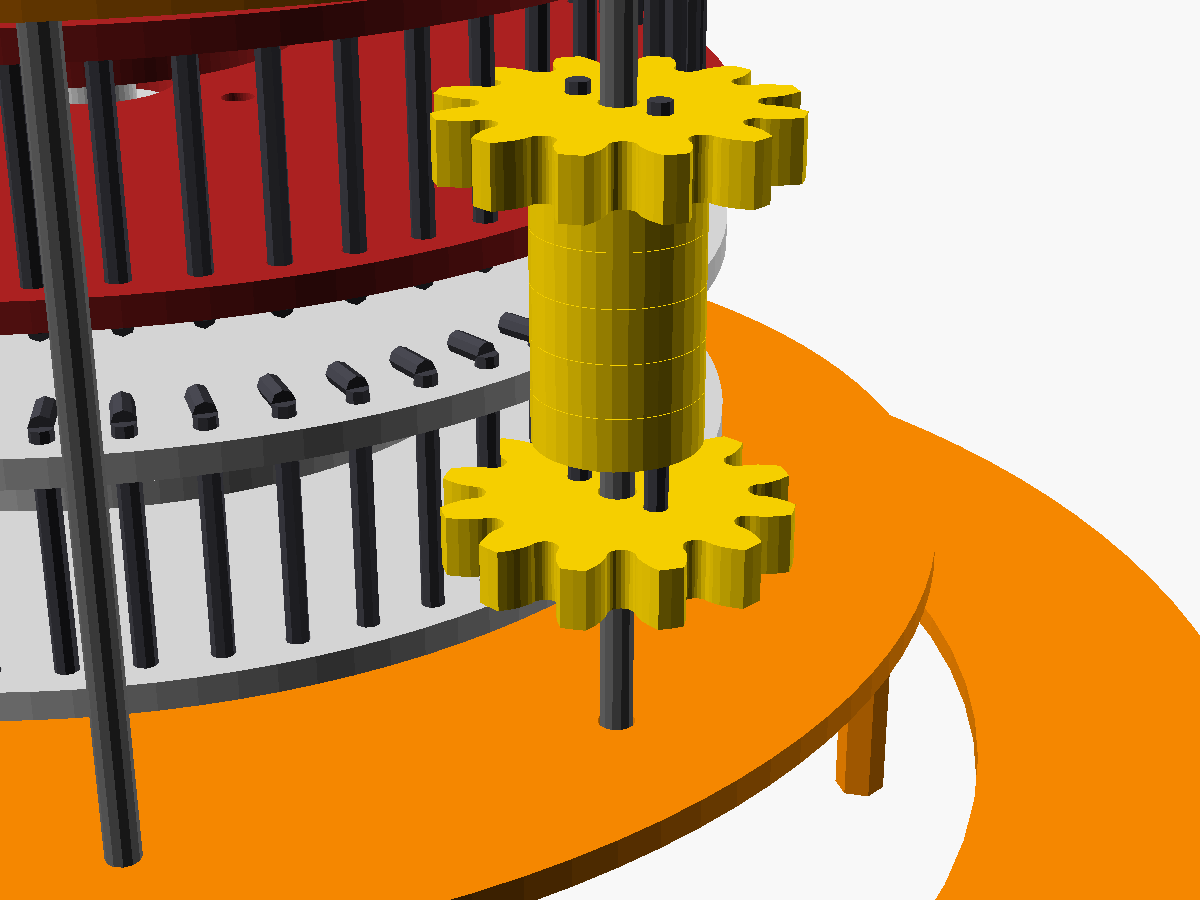
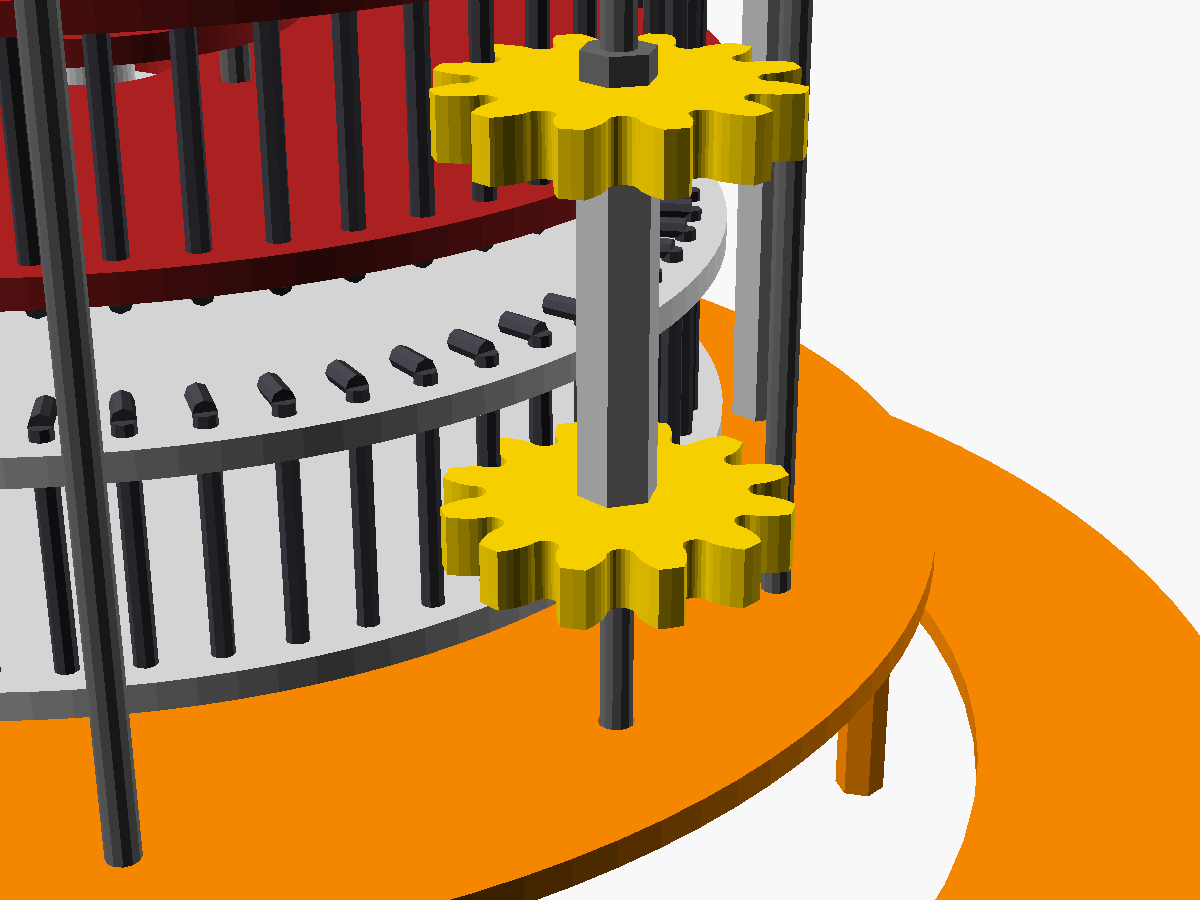
Clock train: M3 bolts + bought spacers instead of tie pins and cut spacer rings; planet bolt is its shaft
Claude-Session: https://claude.ai/code/session_01LQy87QnU21cWEAk5CN6jGY

diff --git a/marbles/clock/clock_train_drive.py b/marbles/clock/clock_train_drive.py
@@ -9,8 +9,9 @@ import matplotlib.image as mi  # noqa: E402
 
 import clock_pins as cp  # noqa: E402
 
-T, A, G, MID, CB = cp.T, cp.A, cp.G, cp.M, cp.CB
-GAP, GAP2, CAR_IN, UP_R, CAR_OUT = 24, 10, 44.5, 50, cp.A + 14
+T, A, G, MID, CB, FG = cp.T, cp.A, cp.G, cp.M, cp.CB, cp.FG
+GAP, CAR_IN, UP_R, CAR_OUT = 24, 44.5, 50, cp.A + 14
+SP_UP, SP_HAND, SP_R = 20, 12, cp.SP_D / 2
 COL = dict(fix="0.80", sec="darkorange", mpl="gold", minute="firebrick", hpl="hotpink", hour="royalblue", hw="0.25", pin="0.15")
 HERE = Path(__file__).resolve().parent
 VIEWS = HERE.parent / "views"
@@ -31,18 +32,22 @@ def layout():
     z = dict(bc=0.0)
     z["fa"] = T + CB
     z["fb"] = z["fa"] + 2 * T + G + MID
-    z["fc"] = z["fb"] + 2 * T + G + 0.5
-    z["pa"] = z["fa"] + T + T / 2
-    z["pb"] = z["fb"] + T + T / 2
+    z["fc"] = z["fb"] + 2 * T + G + FG
+    z["pa"] = z["fa"] + T + (G - 2 * T) / 2
+    z["pb"] = z["fb"] + T + (G - 2 * T) / 2
     z["depth"] = z["fc"] + T
     return z
 
 
-def pin_wheel(ax, z0, sn, col, bore_r, hub_in, hub_out):
+def pin_wheel(ax, z0, sn, col, bore_r, hub_in, hub_out, bolt_r, rings):
     zf = z0 + T + G
     for zz in (z0, zf):
         box(ax, zz, T, bore_r, sn["rim"], col)
-    box(ax, z0 + T, G, hub_in, hub_out, col)
+    if rings:
+        box(ax, z0 + T, G, hub_in, hub_out, col)                                   # cut rings = the 608 housing
+    else:
+        box(ax, z0 + T, G, bolt_r - SP_R, bolt_r + SP_R, "silver")                 # bought spacer
+    box(ax, z0 - 2, zf + T + 4.4 - z0, bolt_r - 1.5, bolt_r + 1.5, COL["hw"])      # M3 bolt
     R = sn["R"]
     box(ax, z0 - cp.PIN, 2 * T + G + 2 * cp.PIN, R - cp.PIN / 2, R + cp.PIN / 2, COL["pin"], ec="none")
     for zz in (z0 - cp.PIN, zf + T):
@@ -54,22 +59,22 @@ def stage(ax, z0, name, ccar, cpl, cout):
     z = {k: v + z0 for k, v in layout().items()}
     fc_in = max(x["rim"] for n in cp.STAGES for x in suns(n)[1:]) + 1
     box(ax, z["bc"], T, CAR_IN, CAR_OUT, ccar); box(ax, z["fc"], T, fc_in, CAR_OUT, ccar)
-    box(ax, z["bc"] - 2, z["fc"] + T + 5 - z["bc"], A - 1.5, A + 1.5, COL["hw"])                     # axle bolt
     box(ax, z["fa"] - 15, 15, 20, 35, COL["fix"]); box(ax, z["fa"] - 14.5, 14, 4, 20, COL["fix"])    # beam + SK8 (schematic)
-    pin_wheel(ax, z["fa"], a, COL["fix"], 4.2, 4.5, 40)
-    pin_wheel(ax, z["fb"], b, cout, 8, 11.1, 21)
+    pin_wheel(ax, z["fa"], a, COL["fix"], 4.2, 0, 0, 27.5, False)
+    pin_wheel(ax, z["fb"], b, cout, 8, 11.1, 21, 16, True)
     box(ax, z["fb"] + T + 0.4, 7, 4, 11, "silver")                                                   # 608
 
     tipA, tipB = TIPS[name]
     for zp, tip in ((z["pa"], tipA), (z["pb"], tipB)):
         box(ax, zp, 2 * T, A - tip, A + tip, cpl)
-    box(ax, z["pa"] + 2 * T, z["pb"] - z["pa"] - 2 * T, A - cp.HUB_R, A + cp.HUB_R, cpl)            # 5 hub rings
-    for s in (-1, 1):
-        box(ax, z["pa"] - 0.3, z["pb"] + 2 * T - z["pa"] + 0.6, A + s * cp.TIE_R - 1, A + s * cp.TIE_R + 1, COL["pin"], ec="none")
-    box(ax, z["bc"] - 2, z["fc"] + T + 5 - z["bc"], A - 1.5, A + 1.5, COL["hw"])
+    box(ax, z["pa"] + 2 * T, z["pb"] - z["pa"] - 2 * T, A - SP_R, A + SP_R, "silver")              # bought hub spacer
+    box(ax, z["bc"] - 2, z["fc"] + T + 4.4 - z["bc"], A - 1.5, A + 1.5, COL["hw"])                  # planet bolt = shaft
+    for zz in (z["pa"] - 2.4, z["pb"] + 2 * T, z["fc"] + T):
+        box(ax, zz, 2.4, A - 3.2, A + 3.2, COL["hw"])                                              # nuts
     # clearances (assert, then report)
-    chk = {"planet hub inside the middle discs' rims": A - cp.HUB_R - max(a["rim"], b["rim"]),
-           "planet tips vs fixed hub ring (r 40)": A - tipA - 40,
+    chk = {"planet hub spacer inside the middle discs' rims": A - SP_R - max(a["rim"], b["rim"]),
+           "planet tips vs fixed sun spacers (r 27.5 + 3.5)": A - tipA - 31,
+           "hour hand vs front carrier nuts": SP_HAND - (FG + T + 2.4 + 2),
            "front carrier opening vs sun B rim": fc_in - b["rim"]}
     for k, v in chk.items():
         assert v > 0, (name, k, v)
@@ -83,7 +88,7 @@ def drive_diagram():
     fig, ax = plt.subplots(figsize=(18, 11))
     zw = -GAP - 2
     m, ma, mb, chk_m = stage(ax, 0, "minute", COL["sec"], COL["mpl"], COL["minute"])
-    z_h = m["depth"] + GAP2
+    z_h = m["fb"] + 2 * T + G + SP_UP
     h, ha, hb, chk_h = stage(ax, z_h, "hour", COL["minute"], COL["hpl"], COL["hour"])
     box(ax, zw, T, 92, 122, COL["sec"]); box(ax, zw + T, 2, 112, 134, COL["sec"])
     box(ax, zw + T, -zw - T, 80 - 2.5, 80 + 2.5, COL["sec"])                                         # wheel -> carrier standoff
@@ -91,26 +96,28 @@ def drive_diagram():
     box(ax, z_mfd + T, z_h - z_mfd - T, UP_R - 2.5, UP_R + 2.5, COL["minute"])                       # minute sun -> hour carrier
     box(ax, z_h - 1.6, 1.6, UP_R - 4, 142, COL["minute"])                                            # minute hand
     z_hfd = h["fb"] + T + G + T
-    box(ax, z_hfd, 3 * T, 4.2, 21, COL["hour"]); box(ax, z_hfd + 3 * T, 1.6, 0, 76, COL["hour"])     # spacers + hour hand
-    box(ax, z_hfd + 3 * T + 3, 8, 4, 8, COL["hw"])                                                   # collar
-    box(ax, zw - 12, z_hfd + 3 * T + 25 - zw, -4, 4, COL["fix"])                                     # rod
+    z_hh = z_hfd + SP_HAND
+    box(ax, z_hfd + 2.4, SP_HAND - 2.4, 16 - SP_R, 16 + SP_R, "silver")                              # spacers on the sun's bolts
+    box(ax, z_hh, T, 4.2, 76, COL["hour"])                                                           # hour hand (ply)
+    box(ax, z_hh + T + 3, 8, 4, 8, COL["hw"])                                                        # collar
+    box(ax, zw - 12, z_hh + T + 25 - zw, -4, 4, COL["fix"])                                          # rod
     L = lambda txt, xy, xyt, c="k": ax.annotate(txt, xy, xyt, fontsize=8.5, color=c, arrowprops=dict(arrowstyle="->", lw=1, color=c),
                                                 bbox=dict(fc="w", ec=c, lw=.8, pad=2))
     L("ESCAPE WHEEL front ring\n+ seconds pointer (1 rev/min)", (zw + 1, 125), (zw - 40, 138), COL["sec"])
     L("6 standoffs: wheel drives\nthe MINUTE CARRIER", (zw + 12, 80), (zw - 40, 100), COL["sec"])
-    L("minute carrier: back + front annulus,\ntied by the 3 M3 planet axle bolts", (1, 50), (zw - 40, 52), COL["sec"])
-    L(f"MINUTE PLANET: gear A (2 layers) + 5 hub rings + gear B (2 layers),\n2 wire tie pins, spins on the axle bolt.\n"
+    L("minute carrier: back + front annulus,\ntied by 3 M3 bolts + 40 spacers between the planets", (1, 50), (zw - 40, 52), COL["sec"])
+    L(f"MINUTE PLANET: gear A (2 layers) + 15 spacer + gear B (2 layers), clamped\nby one M3 bolt + nuts: the bolt is its shaft, turning in both carriers.\n"
       f"A rolls round the FIXED {ma['Z']}-pin sun, B pushes the {mb['Z']}-pin MINUTE SUN", (m["pa"] + 3, A + 12), (-30, 108), "darkgoldenrod")
-    L(f"FIXED minute sun: {ma['Z']} wire pins between 2 discs (3 hub rings),\nends bent inward; bolted to a 1515 beam, SK8 on the beam\n"
+    L(f"FIXED minute sun: {ma['Z']} wire pins between 2 discs (8 spacers on its 4 M3 bolts),\nends bent inward; bolted to a 1515 beam, SK8 on the beam\n"
       f"clamps the rod (beam + SK8 drawn schematically: they sit below the rod)", (m["fa"] + 1, 30), (zw - 40, 14), "0.35")
-    L(f"MINUTE SUN: {mb['Z']} pins between 2 discs,\n608 in its hub rings (1 rev/h)", (m["fb"] + 1, 45), (m["fb"] - 20, -34), COL["minute"])
-    L("5 standoffs: minute sun\ndrives the HOUR CARRIER", (z_mfd + 6, UP_R), (z_mfd + 14, -30), COL["minute"])
+    L(f"MINUTE SUN: {mb['Z']} pins between 2 discs,\n608 in 3 cut housing rings (1 rev/h)", (m["fb"] + 1, 45), (m["fb"] - 20, -34), COL["minute"])
+    L("5 standoffs (20): minute sun\ndrives the HOUR CARRIER", (z_mfd + 6, UP_R), (z_mfd + 14, -30), COL["minute"])
     L("MINUTE HAND, on the hour carrier", (z_h - 1, 135), (z_h - 50, 145), COL["minute"])
     L(f"HOUR PLANET: A rolls round the FIXED {ha['Z']}-pin sun,\nB pushes the {hb['Z']}-pin HOUR SUN", (h["pb"] + 3, A + 12), (z_h + 10, 108), "mediumvioletred")
     L(f"FIXED hour sun ({ha['Z']} pins)\n+ its beam + SK8", (h["fa"] + 1, 30), (z_h + 50, 36), "0.35")
-    L("HOUR SUN (60 pins) on a 608,\n3 spacer rings + HOUR HAND\n(1 rev / 12 h), clear of the\nfront carrier and its nuts", (z_hfd + 3 * T + 1, 66), (z_hfd + 16, 72), COL["hour"])
-    L("wire pin, ends bent\nover on both outer faces", (m["fa"] - 1, ma["R"] - 2), (m["fa"] - 2, 90), COL["pin"])
-    L("collar", (z_hfd + 3 * T + 7, 6), (z_hfd + 3 * T + 16, -10), "k")
+    L("HOUR SUN (60 pins) on a 608,\n12 spacers + HOUR HAND\n(1 rev / 12 h), clear of the\nfront carrier and its nuts", (z_hh + 1, 66), (z_hfd + 16, 72), COL["hour"])
+    L("wire pin (engages the teeth),\nends bent over on both faces", (m["fa"] - 1, ma["R"] - 2), (m["fa"] - 2, 90), COL["pin"])
+    L("collar", (z_hh + 7, 6), (z_hh + 16, -10), "k")
     ax.set_xlim(zw - 44, z_hfd + 60); ax.set_ylim(-40, 152); ax.set_aspect("equal")
     ax.set_xlabel("along the rod, mm (back -> front, viewer on the right)"); ax.set_ylabel("radius from the rod, mm")
     ax.set_title("WHAT DRIVES WHAT, pin-wheel version: half side-section above the rod. One colour = one rigid body. Grey = fixed, black = wire.\n"
@@ -119,7 +126,7 @@ def drive_diagram():
     plt.tight_layout(); plt.savefig(out, dpi=100)
     for n, c in (("minute", chk_m), ("hour", chk_h)):
         print(n, "; ".join(f"{k} {v:.2f}" for k, v in c.items()))
-    print(f"stage depth {m['depth']:.2f}; hour carrier at z {z_h:.2f}; hour hand front at z {z_hfd + 3 * T + 1.6:.2f}; "
+    print(f"stage depth {m['depth']:.2f}; hour carrier at z {z_h:.2f}; hour hand front at z {z_hh + 1.6:.2f}; "
           f"escape wheel ring at z {zw}")
     return out
 
@@ -130,11 +137,11 @@ def renders():
                                 ("ct_planet", "a minute planet (exploded 5 mm): gear A in the fixed sun's pins, hub, gear B in the minute sun's pins"))):
         a = fig.add_axes([0.0 + (i % 2) * 0.5, 0.52 - (i // 2) * 0.5, 0.5, 0.46]); a.imshow(mi.imread(VIEWS / f"{n}.png")); a.axis("off"); a.set_title(t, fontsize=14)
     a = fig.add_axes([0.05, 0.04, 0.9, 0.42]); a.axis("off")
-    for k, (c, txt) in enumerate(((COL["sec"], "ORANGE: escape wheel + 6 standoffs + minute carrier (back + front) + its 3 planet axle bolts (1 rev/min)"),
-                                  (COL["mpl"], "YELLOW: the 3 minute planets: gear A (2 layers) + 5 hub rings + gear B (2 layers), 2 tie pins, spin on their bolts"),
-                                  (COL["minute"], "RED: minute sun (60 pins) + 5 standoffs + hour carrier (back + front) + its 3 axle bolts + minute hand (1 rev/h)"),
+    for k, (c, txt) in enumerate(((COL["sec"], "ORANGE: escape wheel + 6 standoffs + minute carrier (back + front) (1 rev/min)"),
+                                  (COL["mpl"], "YELLOW: the 3 minute planets: gear A (2 layers) + spacer + gear B (2 layers), clamped on an M3 bolt (their shaft)"),
+                                  (COL["minute"], "RED: minute sun (60 pins) + 5 standoffs + hour carrier (back + front) + minute hand (1 rev/h)"),
                                   (COL["hpl"], "PINK: the 3 hour planets (gear A in the fixed 55-pin sun, gear B in the hour sun)"),
-                                  (COL["hour"], "BLUE: hour sun (60 pins) + 3 spacer rings + hour hand (1 rev / 12 h)"),
+                                  (COL["hour"], "BLUE: hour sun (60 pins) + hour hand (on spacers) (1 rev / 12 h)"),
                                   (COL["fix"], "GREY: fixed: rod, fixed pin suns (59 and 55 pins), 1515 beams, SK8s.   BLACK: 2.05 wire pins, bent over at both ends"))):
         a.add_patch(plt.Rectangle((0, 0.9 - k * 0.15), 0.06, 0.1, fc=c, ec="k", transform=a.transAxes))
         a.text(0.08, 0.95 - k * 0.15, txt, fontsize=13, va="center", transform=a.transAxes)

diff --git a/marbles/clock/clock_pins.py b/marbles/clock/clock_pins.py
@@ -10,8 +10,9 @@ sun A the pitch that keeps the centre distance.
 Stack along the rod, one stage (back -> front):
   back carrier | bend room | sun A back disc | gap: planet A (2 layers) | sun A front disc | bend room x2 |
   sun B back disc | gap: planet B (2 layers) | sun B front disc | front carrier
-The planet's A and B layers are joined by 5 hub rings (passing the two middle discs, inside their rims) and 2 wire
-pins, and spin on an M3 axle bolt nutted to both carriers.
+The planet's gear A (2 layers) and gear B (2 layers) are clamped by ONE M3 bolt + nuts round a bought spacer (which
+passes the two middle discs inside their rims); that bolt is the planet's shaft, turning in holes in both carriers.
+Everything else that only holds parts apart is a bought M3 spacer too (SP_* below).
 
     python3 marbles/clock/clock_pins.py   # numbers + clock_pins_profiles.scad (used by clock_train.scad)
 """
@@ -32,10 +33,15 @@ BEND = 2.05               # a bent-over pin end stands this proud of its disc fa
 A = 72.0
 STAGES = {"minute": dict(ZA=59, PA=12, ZB=60, PB=12, N=3), "hour": dict(ZA=55, PA=12, ZB=60, PB=12, N=3)}
 CB = 3.0                  # back carrier to sun A back disc: room for the bent pin ends
-G = 3 * T                 # disc to disc round a planet gear (2 layers + T/2 each side)
-M = 2 * T                 # sun A front disc to sun B back disc: two rows of bent ends (2 x 2.05) + clearance
-HUB_R = 7.2               # planet hub ring radius (must pass inside A - disc rim)
-TIE_R = 4.4               # planet tie pins, from the planet centre
+# bought M3 spacers (lengths): everything that only holds parts apart is a spacer on an M3 bolt, not cut ply
+SP_SUN = 8.0              # between a sun's two discs (round a planet gear: 2 layers + 1.37 each side)
+SP_HUB = 15.0             # planet: gear A front face to gear B back face, round the planet's M3 bolt
+SP_CAGE = 40.0            # back carrier to front carrier (tie standoffs between the planets)
+SP_D = 7.0                # spacer outside diameter (as drawn; the planet hub spacer must pass inside the disc rims)
+G = SP_SUN
+M = SP_HUB - SP_SUN       # sun A front disc to sun B back disc: two rows of bent ends (2 x 2.05) + clearance
+FG = SP_CAGE - (CB + 4 * T + 2 * G + M)   # sun B front disc to front carrier
+HUB_R = SP_D / 2
 TIP_W = 0.8               # planet tooth tip width (sets the addendum)
 
 
@@ -120,8 +126,9 @@ if __name__ == "__main__":
             out.append(f"{name}_{lay}_R = {sn['R']:.4f}; {name}_{lay}_RIM = {sn['rim']:.4f}; {name}_{lay}_TIP = {ra:.3f};")
         print(f"  hub ring r <= A - max disc r - 1 = {A} - {max(a['rim'], b['rim']):.2f} - 1 = {hub_max:.2f} (using {HUB_R})")
         assert HUB_R <= hub_max
-    print(f"tie pin web: to the axle hole {TIE_R - PIN_HOLE/2 - 1.65:.2f}, to the hub edge {HUB_R - TIE_R - PIN_HOLE/2:.2f}")
-    depth = T + CB + T + G + T + M + T + G + T + 0.5 + T
-    print(f"stage depth {depth:.2f}; sun pin span (outer faces) {2*T+G:.2f}; planet stack {9*T:.2f}")
+    assert M >= 2 * BEND + 0.5 and FG >= 0.5, (M, FG)
+    depth = T + CB + T + G + T + M + T + G + T + FG + T
+    print(f"between the suns {M:.2f} for 2 rows of bent ends ({2 * BEND:.2f}); sun B front disc to front carrier {FG:.2f}")
+    print(f"stage depth {depth:.2f}; sun pin span (outer faces) {2*T+G:.2f}; planet stack {4*T + SP_HUB:.2f}")
     (HERE / "clock_pins_profiles.scad").write_text("\n".join(out) + "\n")
     print("wrote clock_pins_profiles.scad")
